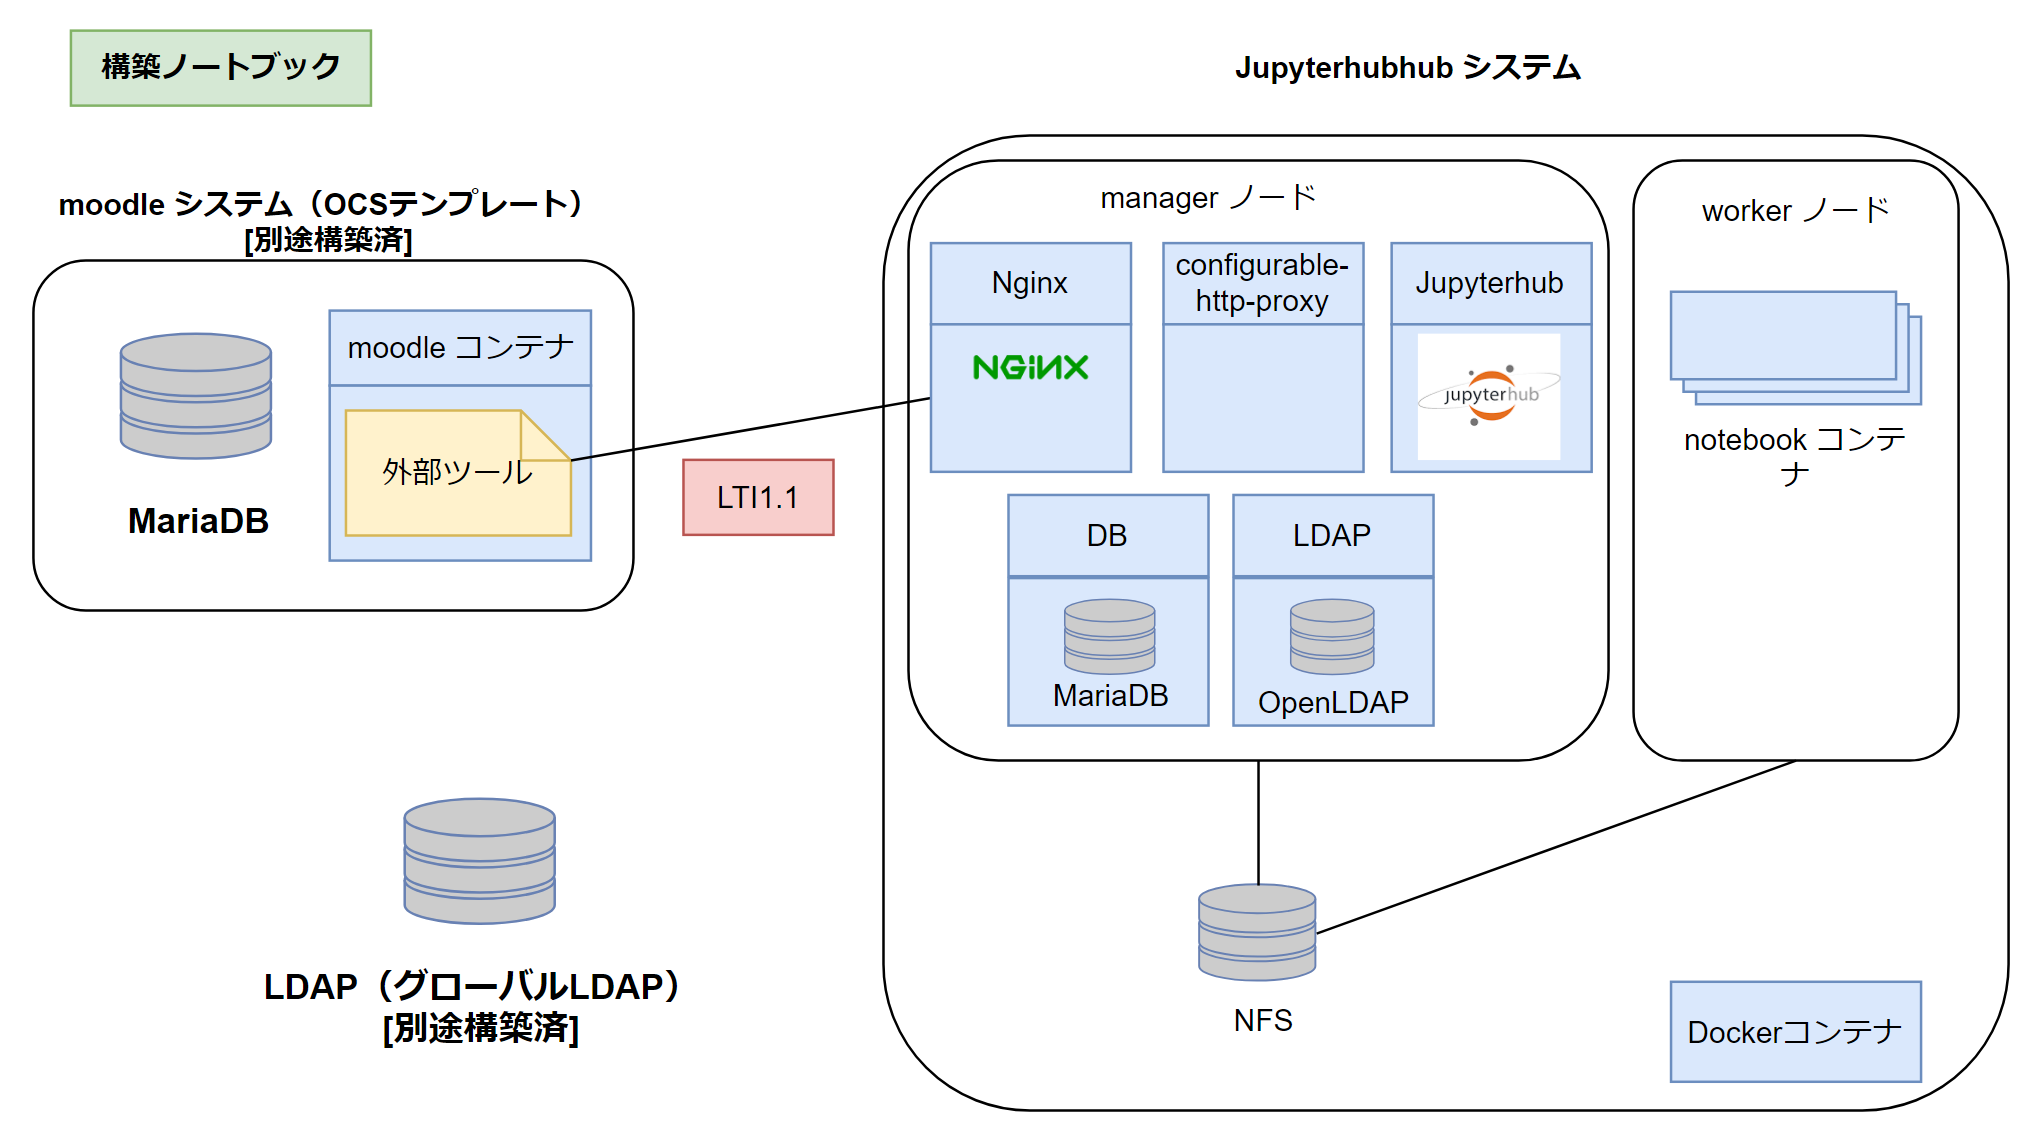
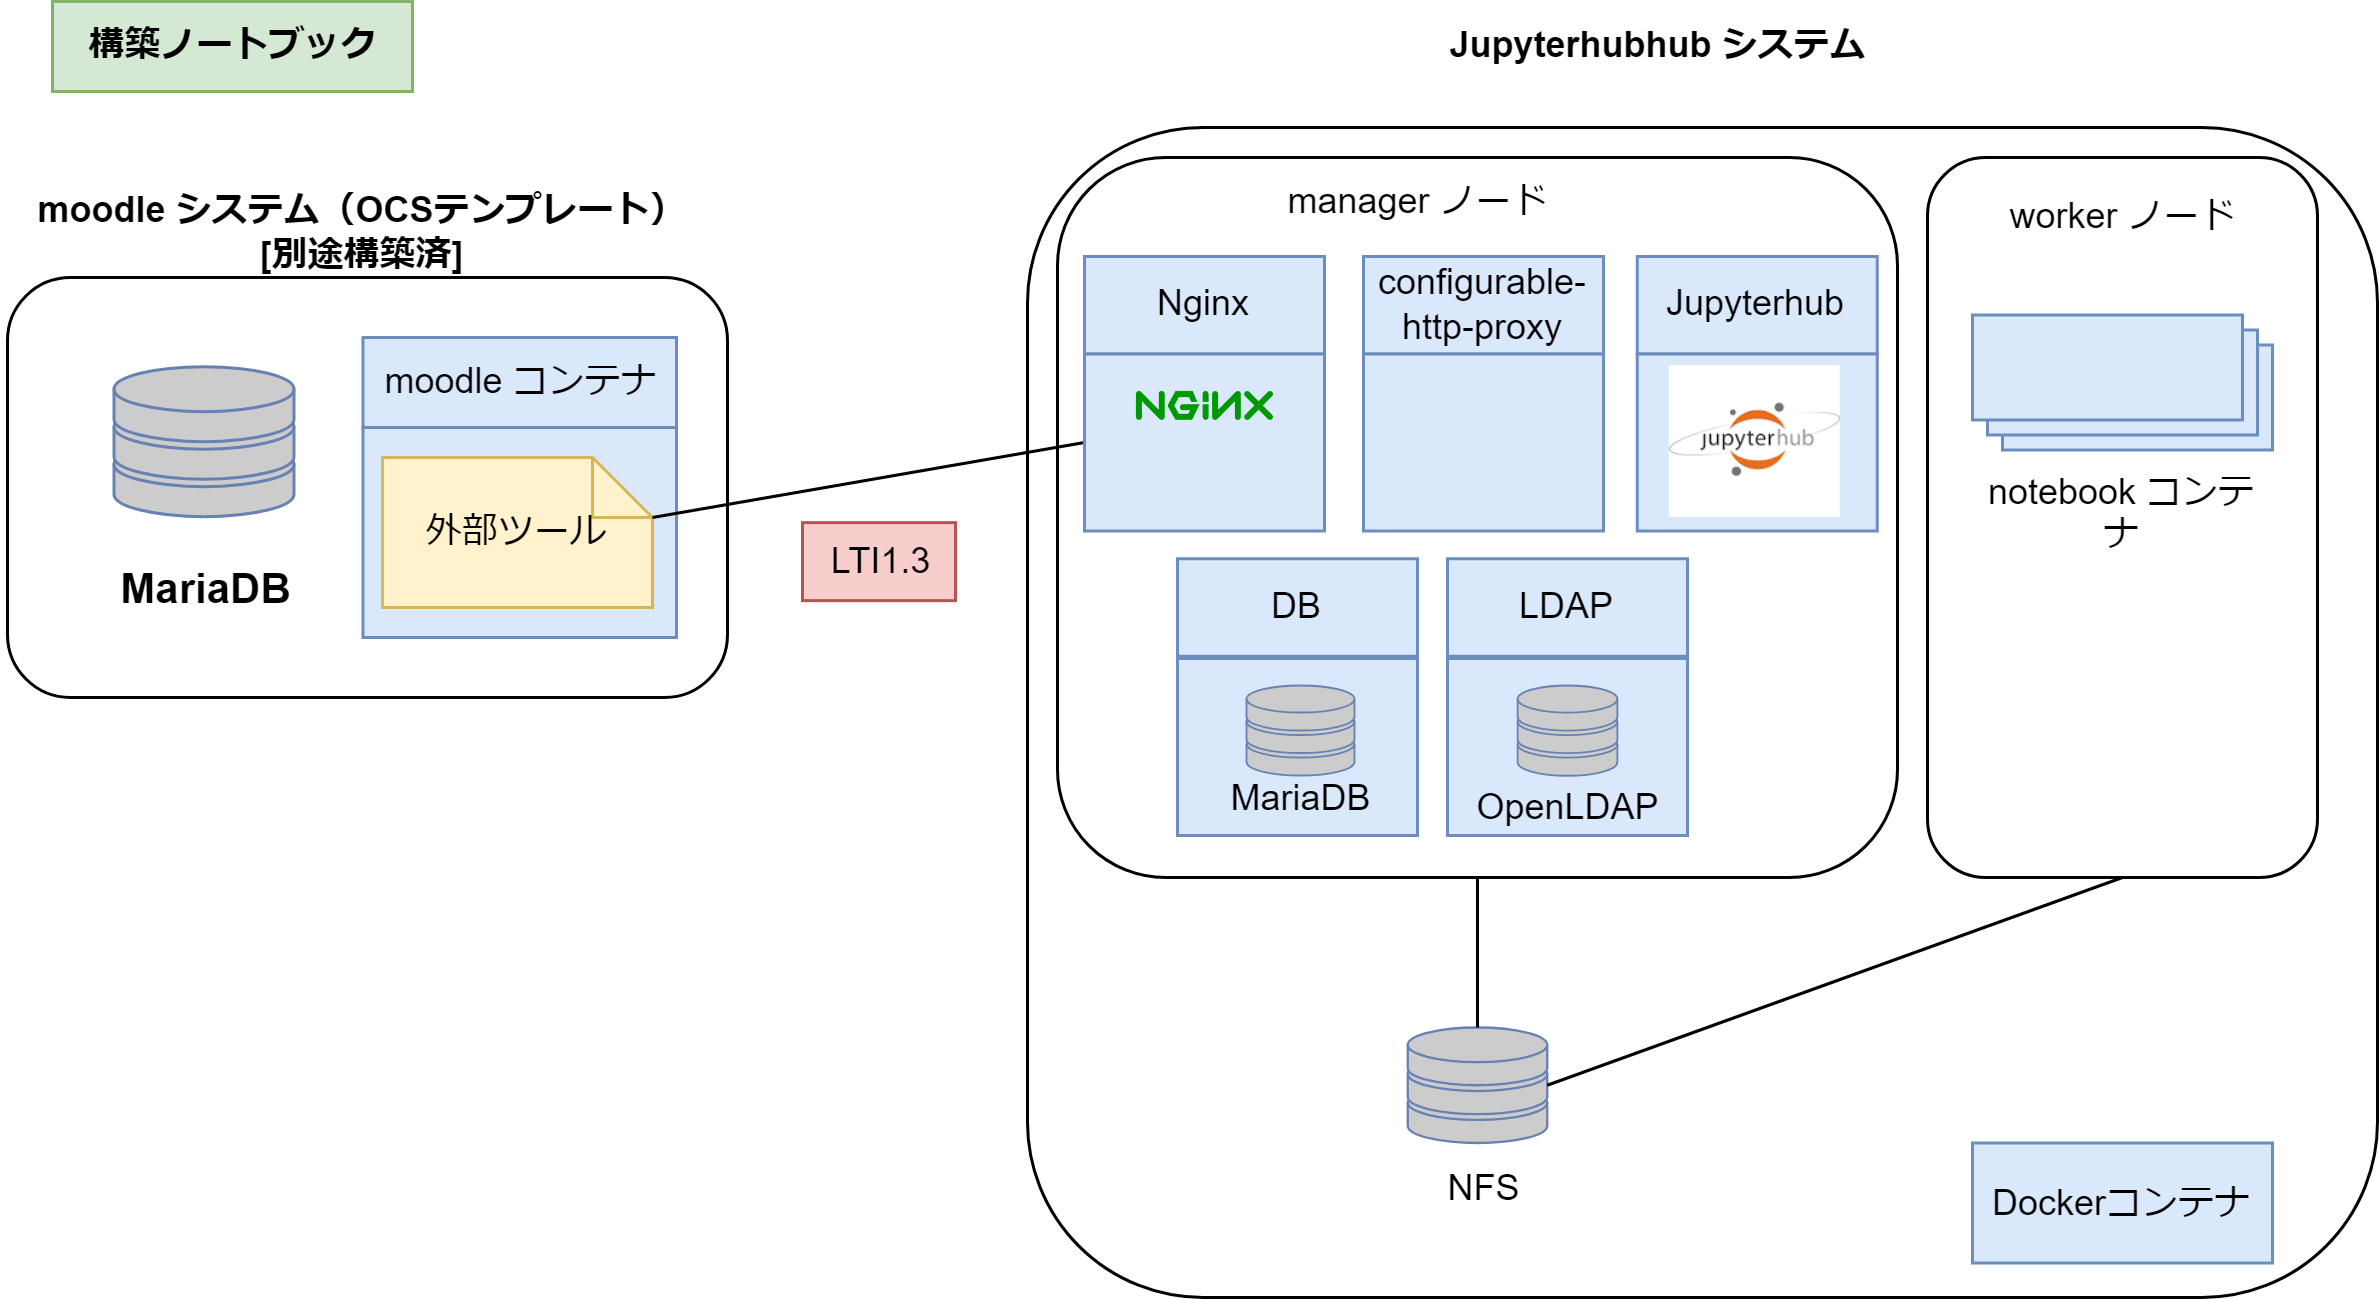
doc: Fix README.md lti1.1->lti1.3

diff --git a/README.md b/README.md
@@ -8,8 +8,8 @@ VCP SDKを用いてクラウド上にJupyterHub環境を構築します。
 
 ### JupyterHubのユーザ認証について
 
-JupyterHubではユーザの認証機能としてLTI認証連携（LTI1.1）を使用します。
-現在対応しているLMSは、Moodle3.9です。
+JupyterHubではユーザの認証機能としてLTI認証連携（LTI1.3）を使用します。  
+現在連携動作確認済みのLMSは、Moodle3.9です。
 
 ### コンテナの構成について
 
@@ -23,10 +23,10 @@ JupyterHubのノードは役割に応じて以下のものに分類されます
 
 * manager
     - JupyterHub, MariaDBなどのSystemコンテナを実行するノード
-    - Docker Swarmのmanagerノードとなる
+    - Docker Swarm の managerノードとなる
 * worker
     - single-user Jupyter notebook serverを実行するノード
     - Docker Swarm の workerノードとなる
     
-JupyterHubではデータやNotebookなどをノード間で共有するためにNFSを利用します。
+JupyterHubではデータやNotebookなどをノード間で共有するためにNFSを利用します。  
 managerノードがNFSサーバの役割を兼ねる構成としています。
